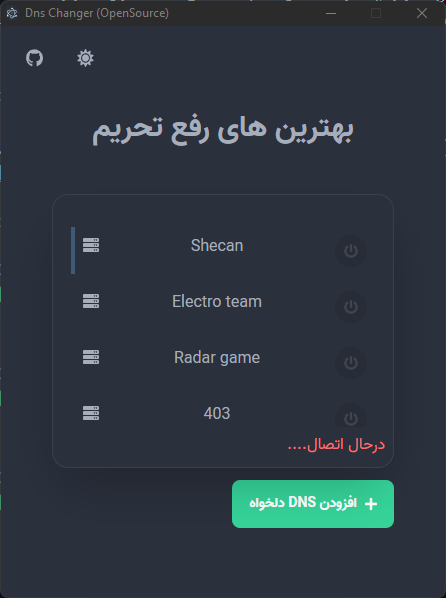
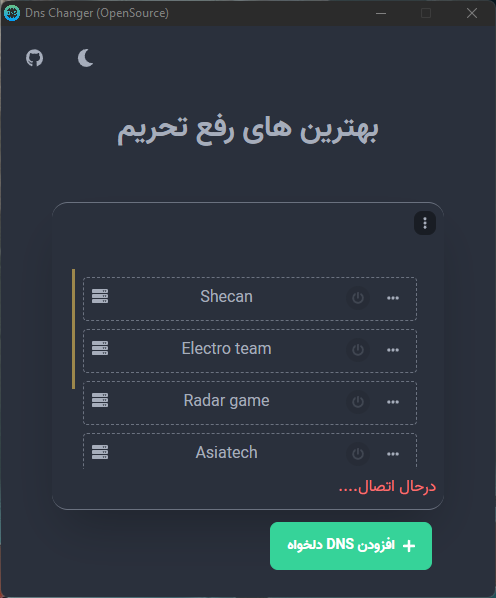
update README & ChangeLog

diff --git a/changelog.md b/changelog.md
@@ -11,3 +11,8 @@
 - تشخیص DNS فعلی هنگام اجرا برنامه
 - اضافه شدن تغییر تم
 - اضافه شدن پشتیبانی از لینوکس
+
+## v1.2.0
+- اضافه شدن مخزن برای دریافت جدیدترین DNS ها 
+- حذف یک سرور از لیست
+- تغییرات ظاهری
